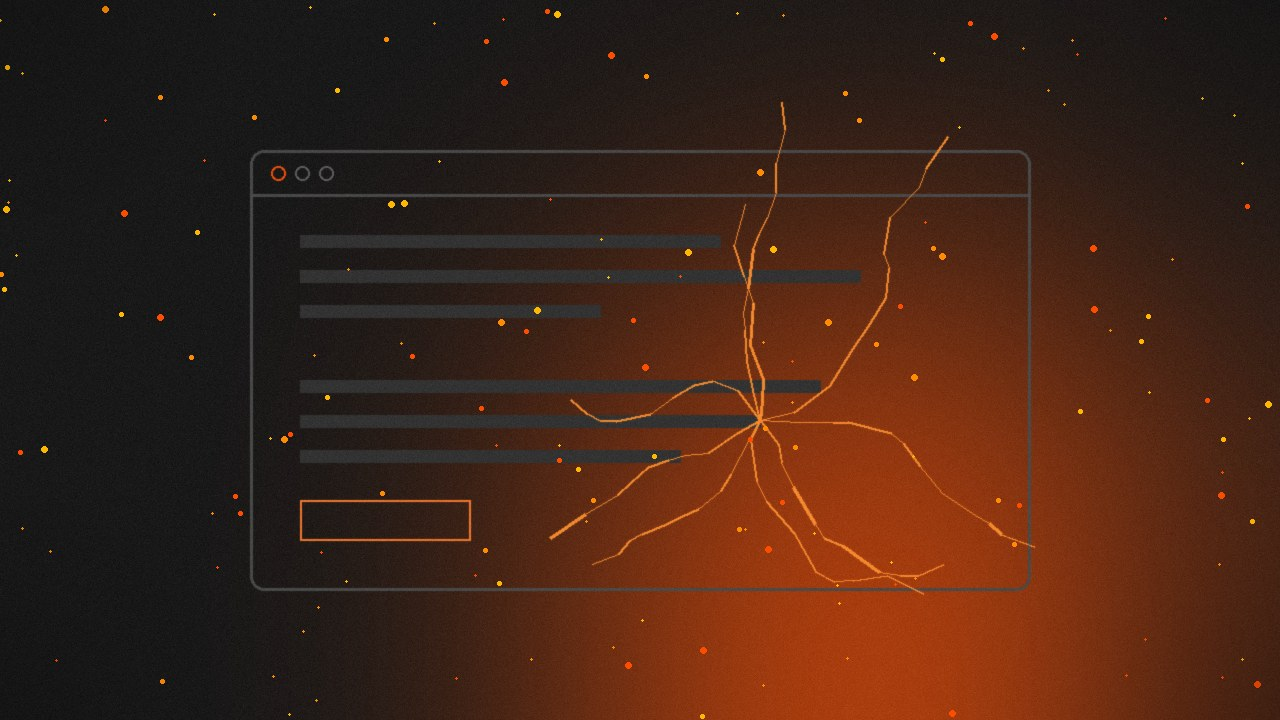
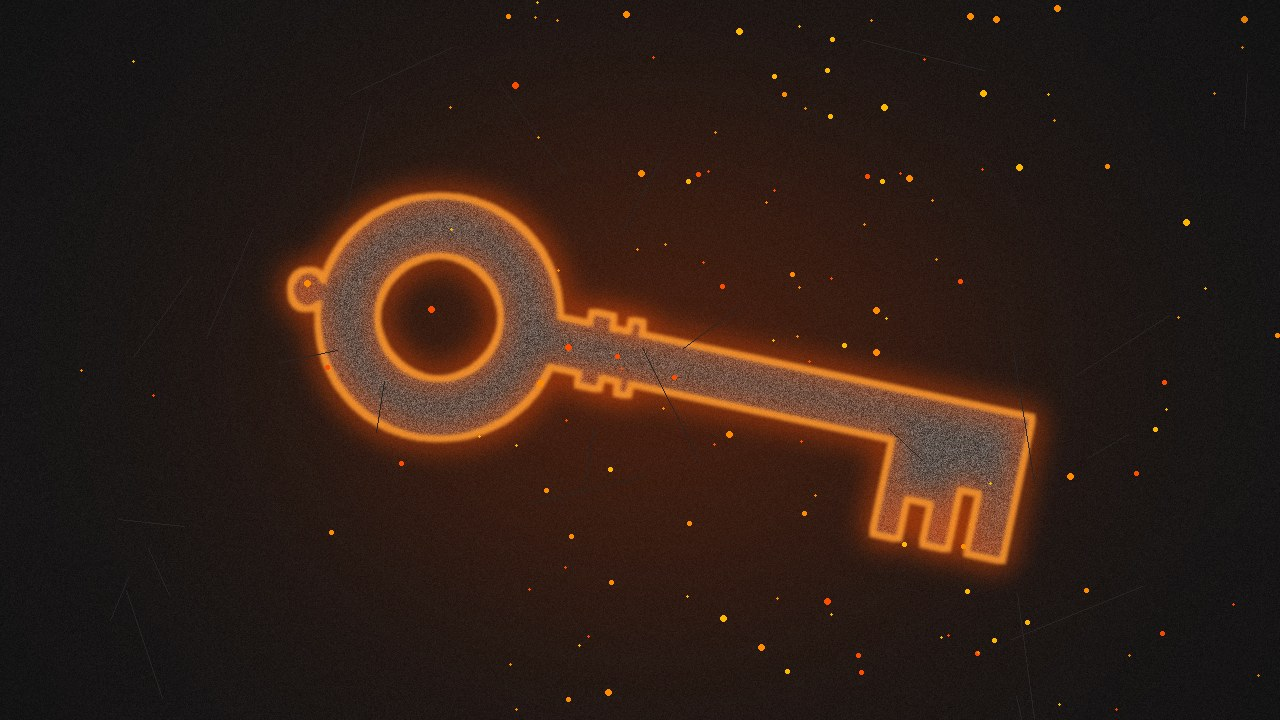
PM-345: Rewrite post around the four options and handoff checklist
Drops the repeated pain list (overlapped the psychiatry post, LinkedIn
post and pillar). New focus: four ways to run a practice site, five
questions to ask before hiring, take-back-the-keys checklist, site brief.
New key-concept hero image; updated meta, card and feed description.

diff --git a/blog/therapist-website-management.html b/blog/therapist-website-management.html
@@ -10,11 +10,11 @@
     <link rel="manifest" href="/site.webmanifest">
     <meta name="theme-color" content="#FF4D00">
     <title>Therapist Website Management: Who Runs It? | Phoenix Method</title>
-    <meta name="description" content="Therapist website management explained: what a practice site needs every month, who should run it, and how to take it back from an agency that went quiet.">
+    <meta name="description" content="Therapist website management: compare the four ways to run a practice site, five questions to ask before hiring, and a checklist to take back your logins.">
     <meta name="robots" content="index, follow, max-image-preview:large">
     <link rel="canonical" href="https://www.phoenixmethodseo.com/blog/therapist-website-management.html">
     <meta property="og:title" content="Therapist Website Management: Who Should Run Your Practice Website?">
-    <meta property="og:description" content="Therapist website management explained: what a practice site needs every month, who should run it, and how to take it back from an agency that went quiet.">
+    <meta property="og:description" content="Therapist website management: compare the four ways to run a practice site, five questions to ask before hiring, and a checklist to take back your logins.">
     <meta property="og:url" content="https://www.phoenixmethodseo.com/blog/therapist-website-management.html">
     <meta property="og:type" content="article">
     <meta property="og:site_name" content="Phoenix Method">
@@ -26,11 +26,11 @@
     <meta property="og:image:height" content="720">
     <meta name="twitter:card" content="summary_large_image">
     <meta name="twitter:title" content="Therapist Website Management: Who Should Run Your Practice Website?">
-    <meta name="twitter:description" content="Therapist website management explained: what a practice site needs every month, who should run it, and how to take it back from an agency that went quiet.">
+    <meta name="twitter:description" content="Therapist website management: compare the four ways to run a practice site, five questions to ask before hiring, and a checklist to take back your logins.">
     <meta name="twitter:image" content="https://www.phoenixmethodseo.com/blog/images/therapist-website-management.jpg">
-    <script type="application/ld+json">{"@context": "https://schema.org", "@type": "Article", "headline": "Therapist Website Management: Who Should Run Your Practice Website?", "description": "Therapist website management explained: what a practice site needs every month, who should run it, and how to take it back from an agency that went quiet.", "image": "https://www.phoenixmethodseo.com/blog/images/therapist-website-management.jpg", "datePublished": "2026-10-16T12:00:00Z", "dateModified": "2026-10-16T12:00:00Z", "inLanguage": "en", "author": {"@type": "Organization", "name": "Phoenix Method", "url": "https://www.phoenixmethodseo.com/"}, "publisher": {"@type": "Organization", "name": "Phoenix Method", "url": "https://www.phoenixmethodseo.com/"}, "mainEntityOfPage": {"@type": "WebPage", "@id": "https://www.phoenixmethodseo.com/blog/therapist-website-management.html"}, "about": "therapist website management"}</script>
+    <script type="application/ld+json">{"@context": "https://schema.org", "@type": "Article", "headline": "Therapist Website Management: Who Should Run Your Practice Website?", "description": "Therapist website management: compare the four ways to run a practice site, five questions to ask before hiring, and a checklist to take back your logins.", "image": "https://www.phoenixmethodseo.com/blog/images/therapist-website-management.jpg", "datePublished": "2026-10-16T12:00:00Z", "dateModified": "2026-10-16T12:00:00Z", "inLanguage": "en", "author": {"@type": "Organization", "name": "Phoenix Method", "url": "https://www.phoenixmethodseo.com/"}, "publisher": {"@type": "Organization", "name": "Phoenix Method", "url": "https://www.phoenixmethodseo.com/"}, "mainEntityOfPage": {"@type": "WebPage", "@id": "https://www.phoenixmethodseo.com/blog/therapist-website-management.html"}, "about": "therapist website management"}</script>
     <script type="application/ld+json">{"@context": "https://schema.org", "@type": "BreadcrumbList", "itemListElement": [{"@type": "ListItem", "position": 1, "name": "Home", "item": "https://www.phoenixmethodseo.com/"}, {"@type": "ListItem", "position": 2, "name": "Blog", "item": "https://www.phoenixmethodseo.com/blog/"}, {"@type": "ListItem", "position": 3, "name": "Therapist Website Management: Who Should Run Your Practice Website?", "item": "https://www.phoenixmethodseo.com/blog/therapist-website-management.html"}]}</script>
-    <script type="application/ld+json">{"@context": "https://schema.org", "@type": "FAQPage", "mainEntity": [{"@type": "Question", "name": "What does therapist website management include?", "acceptedAnswer": {"@type": "Answer", "text": "It covers the ongoing work that keeps a practice website accurate and visible: clinician and insurance updates, availability and telehealth changes, technical fixes like broken links and indexing problems, Google Business Profile upkeep, new content aimed at real patient searches, and regular reporting. It is a monthly job, not a one-time project."}}, {"@type": "Question", "name": "Can I manage my therapy practice website myself?", "acceptedAnswer": {"@type": "Answer", "text": "You can handle small edits yourself on most platforms. The parts that usually get missed are the technical checks, Search Console monitoring, Google Business Profile upkeep, and steady new content. If you do it yourself, put a recurring monthly block on your calendar and keep a checklist so updates do not depend on memory."}}, {"@type": "Question", "name": "What should I do if my web designer or agency stopped responding?", "acceptedAnswer": {"@type": "Answer", "text": "Start by confirming who owns your domain, hosting, website platform, Google Business Profile, and Search Console, and get owner-level access in the practice’s name for each. Check where your contact forms are delivering. Once the practice controls every account, you can bring in someone new without starting over."}}]}</script>
+    <script type="application/ld+json">{"@context": "https://schema.org", "@type": "FAQPage", "mainEntity": [{"@type": "Question", "name": "What does therapist website management include?", "acceptedAnswer": {"@type": "Answer", "text": "It is the ongoing work of keeping a practice website accurate, working, and growing: content and page updates, technical checks, Search Console monitoring, Google Business Profile upkeep, new content aimed at real patient searches, and a short monthly report. It is a recurring job, not a one-time project."}}, {"@type": "Question", "name": "Is an agency or a freelancer better for a small therapy practice?", "acceptedAnswer": {"@type": "Answer", "text": "It depends on the work. An agency fits large projects like a rebuild. A freelancer fits one-off fixes. For steady monthly upkeep, content, and local SEO, many small practices are better served by one retained practitioner. Whichever you choose, keep every account in the practice’s name."}}, {"@type": "Question", "name": "What should I do if my web designer or agency stopped responding?", "acceptedAnswer": {"@type": "Answer", "text": "Recover access in order: domain registrar, DNS, hosting and website platform, Google Business Profile, then Search Console and Analytics. Test every form. Move each account into the practice’s name and store logins in a password manager you control. Then you can bring in someone new without starting over."}}]}</script>
 
     <link rel="preconnect" href="https://fonts.googleapis.com">
     <link rel="preconnect" href="https://fonts.gstatic.com" crossorigin>
@@ -318,99 +318,103 @@
 
         <span class="blog-meta">Practice Website Management &bull; October 16, 2026</span>
         <h1 class="blog-title">Therapist Website Management: Who Should Run Your Practice Website?</h1>
-        <p class="blog-subtitle">The site was built once. The person who built it is gone. Here is what a mental health practice website actually needs every month, the four people who could do it, and how to take the keys back.</p>
+        <p class="blog-subtitle">There are four ways to run a practice website. Each one breaks in a predictable place. Here is how to choose, what to ask before you hire anyone, and the checklist that gets your logins back first.</p>
 
         <figure class="blog-hero">
-            <img src="/blog/images/therapist-website-management.jpg" alt="A dark, cracked therapy practice website on a laptop screen with an ember orange glow pushing through the cracks, representing therapist website management" loading="eager" width="1280" height="720">
+            <img src="/blog/images/therapist-website-management.jpg" alt="An old iron key glowing ember orange against a dark charcoal background, representing a therapy practice taking back control of its website management" loading="eager" width="1280" height="720">
         </figure>
 
         <div class="blog-body">
 
-            <p>You hired a new clinician in March. She is still not on your website.</p>
+            <p>Quick test. Who can log in to your domain registrar right now?</p>
 
-            <p>The insurance list shows a panel you left last year. The telehealth line in the footer does not say which states. The last blog post is from 2023. Somebody asked who has the login, and the answer was a shrug and the name of a web designer who stopped replying to email.</p>
+            <p>Not &ldquo;who set it up.&rdquo; Who can log in, today, without emailing anyone. Then ask the same question about your website platform, your Google Business Profile, and Google Search Console.</p>
 
-            <p>This is the most common state of a small mental health practice website. Not broken. Just abandoned. And an abandoned site does not hold its rankings. Google keeps checking whether a page is still accurate and still useful. Every month nothing changes, the site quietly loses ground to practices whose pages do.</p>
+            <p>If the answers are &ldquo;I think the designer has that&rdquo; or a long pause, the real question is not how to improve your site. It is who is in charge of it. Therapist website management is a job, and every practice already has someone doing it. Sometimes that someone is nobody.</p>
 
-            <p>Therapist website management is the unglamorous fix. Someone owns the site, every month, as a job. The question is who.</p>
+            <p>This post compares the four people who can hold that job, the questions that separate a good fit from a bad one, and the order to take your accounts back before you hand the site to anyone new.</p>
 
-            <h2>What a Practice Website Needs Every Month</h2>
+            <h2>The Four Options for Running a Practice Website</h2>
 
-            <p>Most owners picture website work as a redesign every five years. The real work is small and constant. Here is the strike list for a typical therapy, psychiatry, or group practice:</p>
-
-            <ul>
-                <li><strong>Clinician changes.</strong> New hires get a bio page with credentials, licensure states, and specialties. Departures come down, or get redirected, so patients are not booking with someone who left.</li>
-                <li><strong>Insurance and fees.</strong> Panels change. Private-pay rates change. The page has to match what the front desk tells callers.</li>
-                <li><strong>Availability.</strong> &ldquo;Accepting new clients&rdquo; and waitlist notices go stale fast. A wrong one costs you calls or wastes them.</li>
-                <li><strong>Telehealth.</strong> Every new state of licensure is a page update, and a chance to show up in searches from that state.</li>
-                <li><strong>Technical checks.</strong> Broken links, forms that stop sending, pages that drop out of Google&rsquo;s index, a plugin update that breaks the mobile menu.</li>
-                <li><strong>Google Business Profile.</strong> Hours, categories, services, photos, and posts, kept in step with the website.</li>
-                <li><strong>New content.</strong> One or two pages or posts a month built around what patients actually search, so the site keeps earning new rankings instead of only defending old ones.</li>
-                <li><strong>Social.</strong> A steady LinkedIn or Instagram presence that points back to the site.</li>
-            </ul>
-
-            <p>None of that is hard. All of it is easy to forget. That is why it does not get done.</p>
-
-            <h2>The Four People Who Could Run It</h2>
-
-            <p>Every practice ends up with one of these. Each has a real tradeoff.</p>
+            <p>Every small mental health practice ends up with one of these, on purpose or by default. None of them is wrong for everyone. Each has a place where it quietly fails.</p>
 
             <h3>1. Someone on staff</h3>
-            <p>The office manager, a clinician who is &ldquo;good with computers,&rdquo; or the owner at 10 p.m. It costs nothing extra on paper. In practice it is the first task dropped when prior authorizations pile up, and very few people on a clinical team know schema, indexing, or Search Console. It works for typo fixes. It rarely works for rankings.</p>
+            <p><strong>Works when:</strong> the changes are small, the person has protected time for it, and the platform is simple.</p>
+            <p><strong>Breaks when:</strong> clinical and admin work gets busy, which is always. Website tasks are the first thing pushed to next week. Staff also rarely have the technical side: indexing problems, schema, page speed, Search Console. The site stays tidy but stops growing. And when that person leaves, the knowledge leaves with them.</p>
 
             <h3>2. An agency</h3>
-            <p>Agencies bring a team and a process. For a large health system, that fits. For a five-clinician practice, it often means a ticket queue for a two-line bio change, a monthly report nobody reads, and an account manager who changes every few months. Some agencies are excellent. The structure just was not built for a practice that needs small changes, fast.</p>
+            <p><strong>Works when:</strong> you need a big project done, like a full rebuild, a brand refresh, or a multi-location launch, and you have the budget for a team.</p>
+            <p><strong>Breaks when:</strong> the work after launch is small and frequent. A two-line change becomes a ticket, a queue, and a review cycle. Account managers rotate. Reporting gets long while the edits you actually asked for wait. Some agencies handle small clients beautifully. The model just was not designed around a practice that needs quick, steady changes.</p>
 
-            <h3>3. A freelancer you call when something breaks</h3>
-            <p>Cheap and quick for one-off fixes. But nobody is watching the site between calls, so problems are found by patients, not by the person paid to fix them. And there is no plan for content or rankings at all.</p>
+            <h3>3. A freelancer on call</h3>
+            <p><strong>Works when:</strong> something specific is broken and you need it fixed this week.</p>
+            <p><strong>Breaks when:</strong> nothing is visibly broken. Nobody is watching between calls, so problems are discovered by patients instead of by the person you pay. There is usually no plan for content, Google Business Profile, or rankings, because nobody asked for one.</p>
 
             <h3>4. One practitioner retained to run it</h3>
-            <p>A single person who owns the website, the technical SEO, the Google Business Profile, the content, and the social posts as one job. You text them; it gets done; they verify it live. They watch Search Console so they see a problem before a patient does. This is the model Phoenix Method runs for mental health practices, and it is the one our <a href="/industries/mental-health-seo/">mental health SEO</a> page lays out in full.</p>
+            <p><strong>Works when:</strong> you want the website, technical SEO, Google Business Profile, content, and social handled as one job by one person you can text.</p>
+            <p><strong>Breaks when:</strong> that person has no system and no backup, or holds your accounts in their own name. The fix is the same as for every option: the practice owns everything, and the practitioner works inside it with their own access.</p>
+
+            <p>Option four is what Phoenix Method does for mental health practices. Our <a href="/industries/mental-health-seo/">mental health SEO</a> page lays out the full scope of that work.</p>
 
             <div class="blog-callout">
-                <p><strong>The test is simple.</strong> If a clinician left today, how many days until her page came down and her patients&rsquo; searches pointed somewhere useful? If the honest answer is &ldquo;whenever someone remembers,&rdquo; nobody is running your website.</p>
+                <p><strong>Pick by the work, not the title.</strong> A rebuild is a project. Keeping a site current and growing is a relationship. Most practices hire for the project and never staff the relationship, which is exactly how sites go dark two years after launch.</p>
             </div>
 
-            <h2>When the Agency Disappeared: Taking Back the Keys</h2>
+            <h2>Five Questions to Ask Before You Hire Anyone</h2>
 
-            <p>This is the autopsy we open most often. The practice paid someone to build the site, the relationship faded, and now nobody inside the practice can log in to anything. Before anyone can manage the site, you need to own it. Recover these, in this order:</p>
+            <p>Whoever you choose, ask these before you sign. The answers tell you more than any portfolio.</p>
 
             <ol>
-                <li><strong>The domain.</strong> Find out which registrar holds it and whose account it sits in. If it is registered to the old agency, get it transferred to an account the practice controls. Losing the domain is the one mistake you cannot undo.</li>
-                <li><strong>Hosting and the website platform.</strong> WordPress, Squarespace, Wix, or a custom build: get an owner-level login in the practice&rsquo;s name, not a shared one.</li>
-                <li><strong>Google Business Profile.</strong> Make sure the practice is the primary owner and the old vendor is removed or downgraded to manager.</li>
-                <li><strong>Google Search Console and Analytics.</strong> These hold your search history. Add the practice as owner on both.</li>
-                <li><strong>Email and forms.</strong> Confirm where contact form submissions are going. A form that still delivers to a former vendor&rsquo;s inbox fails silently, and nobody notices until a patient says they never heard back.</li>
+                <li><strong>&ldquo;Whose name will my accounts be in?&rdquo;</strong> The only right answer is yours. They get their own login with the access they need.</li>
+                <li><strong>&ldquo;How fast does a small change go live, and how do I ask for one?&rdquo;</strong> You want a clear channel and a realistic turnaround, not &ldquo;submit a ticket and we will scope it.&rdquo;</li>
+                <li><strong>&ldquo;What happens every month even if I ask for nothing?&rdquo;</strong> Good management includes proactive work: technical checks, Search Console review, Google Business Profile upkeep, and new content.</li>
+                <li><strong>&ldquo;What will you tell me each month?&rdquo;</strong> A short, plain-language note on what changed and what moved beats a 30-page export.</li>
+                <li><strong>&ldquo;If we part ways, what do I get?&rdquo;</strong> The answer should be: everything. Logins, files, and notes, handed over without a fight.</li>
             </ol>
 
-            <p>Keep every login in a password manager the practice controls. Whoever runs the site next gets their own access, never the owner&rsquo;s password. That way the next transition takes an afternoon, not a crisis.</p>
+            <p>Be wary of anyone who promises a specific ranking by a specific date. Google decides rankings. A good partner controls the quality and consistency of the work, and says so.</p>
 
-            <h2>What Good Management Looks Like Month to Month</h2>
+            <h2>Take Back the Keys: The Handoff Checklist</h2>
 
-            <p>Good therapist website management is boring on purpose. A typical month looks like this:</p>
+            <p>This is the autopsy we open most often: the site was built by someone who is no longer around, and nobody inside the practice can get in. Before anyone can run your website well, the practice has to own it. Recover access in this order, most critical first:</p>
+
+            <ol>
+                <li><strong>Domain registrar.</strong> Find which registrar holds your domain and whose account it sits in. If it belongs to a former vendor, move it to an account the practice controls. Losing the domain is the one mistake that is very hard to undo.</li>
+                <li><strong>DNS.</strong> Confirm where DNS is managed. It is sometimes at the registrar and sometimes elsewhere. DNS controls where your site and your email point.</li>
+                <li><strong>Hosting and the website platform.</strong> WordPress, Squarespace, Wix, or custom: get an owner or administrator login in the practice&rsquo;s name. Make sure backups exist and you know where they live.</li>
+                <li><strong>Google Business Profile.</strong> The practice should be the primary owner. Remove old vendors or lower them to manager.</li>
+                <li><strong>Google Search Console and Analytics.</strong> Add the practice as owner on both. They hold your search history, and you cannot get it back if the property is lost.</li>
+                <li><strong>Forms and intake links.</strong> Submit a test through every form and confirm it reaches the right inbox. Check that booking and intake links still point to your current system.</li>
+                <li><strong>Everything else.</strong> Directory listings, social accounts, and any paid tools or plugins billed to someone else&rsquo;s card.</li>
+            </ol>
+
+            <p>Store every login in a password manager the practice controls. Each person who works on the site gets their own access, never the owner&rsquo;s password. When someone leaves, you remove one user. No crisis, no ransom email.</p>
+
+            <h2>What to Hand the Next Person</h2>
+
+            <p>Once you own the accounts, write a one-page site brief. It makes any transition, to staff, a freelancer, an agency, or a practitioner, take hours instead of weeks:</p>
 
             <ul>
-                <li><strong>Requests handled as they come in.</strong> New clinician, panel change, holiday hours. Done and checked on the live site, usually within days, not weeks.</li>
-                <li><strong>A technical pass.</strong> Crawl errors, indexing, page speed, and schema reviewed and fixed in priority order. That is what our <a href="/services/technical-seo/">technical SEO service</a> covers.</li>
-                <li><strong>The Google profile kept in step.</strong> Hours, services, and a post or two so the profile looks alive. See <a href="/services/gbp-optimization/">GBP optimization</a>.</li>
-                <li><strong>New content.</strong> A service page, a clinician page, or a blog post aimed at a real search your patients make.</li>
-                <li><strong>An accuracy sweep.</strong> Clinicians, insurance, availability, and telehealth states checked against reality once a month.</li>
-                <li><strong>A short plain-language update.</strong> What changed, what moved in Search Console, what is next.</li>
+                <li><strong>Account list.</strong> Every login from the checklist, where it lives, and who has access.</li>
+                <li><strong>Who approves what.</strong> Which changes the office manager can request and which need the owner.</li>
+                <li><strong>Source of truth.</strong> Where the current clinician roster, services, and fees are kept, so the website is updated from one place.</li>
+                <li><strong>Known problems.</strong> Anything you already know is broken or out of date.</li>
+                <li><strong>Goals.</strong> The services or locations you most want to grow.</li>
             </ul>
 
-            <p>The payoff is not a dramatic spike. It is compounding: a site that is always current, always crawlable, and adding a little more authority every month. That is the kind of patient work that outranks agencies charging three times as much.</p>
+            <p>With that brief in hand, the person running your site can spend the first month fixing and building instead of hunting for passwords. The technical side starts with a crawl and a fix list, the kind of work our <a href="/services/technical-seo/">technical SEO service</a> covers. The local side starts with a cleaned-up profile, covered under <a href="/services/gbp-optimization/">GBP optimization</a>.</p>
 
             <h2>Where to Start This Week</h2>
 
-            <p>You do not need to hire anyone to take the first step. Open your own website on your phone and check three things: is every current clinician listed, is the insurance list right, and does the site say where you offer telehealth? Then try to log in to your domain registrar and your Google Business Profile.</p>
+            <p>You do not need to hire anyone to start. Block one hour. Work down the checklist and try every login yourself. Write down what fails. That list is your real starting point, and it is the first thing any good partner should ask to see.</p>
 
-            <p>If any of that fails, you have your answer. The site is drifting, and the fix is ownership, not a redesign. If you run a psychiatric practice, our guide to <a href="/blog/seo-for-psychiatrists.html">SEO for psychiatrists</a> shows which pages to build once someone is in charge.</p>
+            <p>If you run a psychiatric practice, our guide to <a href="/blog/seo-for-psychiatrists.html">SEO for psychiatrists</a> covers which pages to build once someone is in charge. It is the kind of patient work that outranks agencies charging three times as much.</p>
 
             <div class="blog-divider"></div>
 
             <div class="blog-cta">
-                <h3>Find Out What Your Website Has Been Missing</h3>
-                <p>Phoenix Method runs a free audit of your practice website: outdated pages, missing clinicians, insurance and telehealth gaps, technical health, and your Google Business Profile. You get a plain-language strike list, not a sales pitch.</p>
+                <h3>Not Sure Who Holds Your Keys?</h3>
+                <p>Phoenix Method runs a free audit of your practice website: technical health, content gaps, and your Google Business Profile, plus a plain-language list of what to fix first. A strike list, not a sales pitch.</p>
                 <a href="/#contact" class="btn btn-primary">Get Your Free Practice Audit</a>
             </div>
 
@@ -418,15 +422,15 @@
                 <h2>Frequently Asked Questions</h2>
                 <div class="faq-item">
                     <h3>What does therapist website management include?</h3>
-                    <p>It covers the ongoing work that keeps a practice website accurate and visible: clinician and insurance updates, availability and telehealth changes, technical fixes like broken links and indexing problems, Google Business Profile upkeep, new content aimed at real patient searches, and regular reporting. It is a monthly job, not a one-time project.</p>
+                    <p>It is the ongoing work of keeping a practice website accurate, working, and growing: content and page updates, technical checks, Search Console monitoring, Google Business Profile upkeep, new content aimed at real patient searches, and a short monthly report. It is a recurring job, not a one-time project.</p>
                 </div>
                 <div class="faq-item">
-                    <h3>Can I manage my therapy practice website myself?</h3>
-                    <p>You can handle small edits yourself on most platforms. The parts that usually get missed are the technical checks, Search Console monitoring, Google Business Profile upkeep, and steady new content. If you do it yourself, put a recurring monthly block on your calendar and keep a checklist so updates do not depend on memory.</p>
+                    <h3>Is an agency or a freelancer better for a small therapy practice?</h3>
+                    <p>It depends on the work. An agency fits large projects like a rebuild. A freelancer fits one-off fixes. For steady monthly upkeep, content, and local SEO, many small practices are better served by one retained practitioner. Whichever you choose, keep every account in the practice&rsquo;s name.</p>
                 </div>
                 <div class="faq-item">
                     <h3>What should I do if my web designer or agency stopped responding?</h3>
-                    <p>Start by confirming who owns your domain, hosting, website platform, Google Business Profile, and Search Console, and get owner-level access in the practice&rsquo;s name for each. Check where your contact forms are delivering. Once the practice controls every account, you can bring in someone new without starting over.</p>
+                    <p>Recover access in order: domain registrar, DNS, hosting and website platform, Google Business Profile, then Search Console and Analytics. Test every form. Move each account into the practice&rsquo;s name and store logins in a password manager you control. Then you can bring in someone new without starting over.</p>
                 </div>
             </div>
 

diff --git a/blog/index.html b/blog/index.html
@@ -120,7 +120,7 @@
                     <article class="insight-card">
                         <span class="insight-category">Practice Website Management</span>
                         <h3>Therapist Website Management: Who Should Run Your Practice Website?</h3>
-                        <p>What a mental health practice website needs every month, the four people who could run it, and how to take the keys back from an agency that went quiet.</p>
+                        <p>The four ways to run a practice website, five questions to ask before you hire anyone, and the checklist that gets your logins back first.</p>
                         <span class="insight-date">October 16, 2026 &bull; READ NOW</span>
                     </article>
                 </a>
